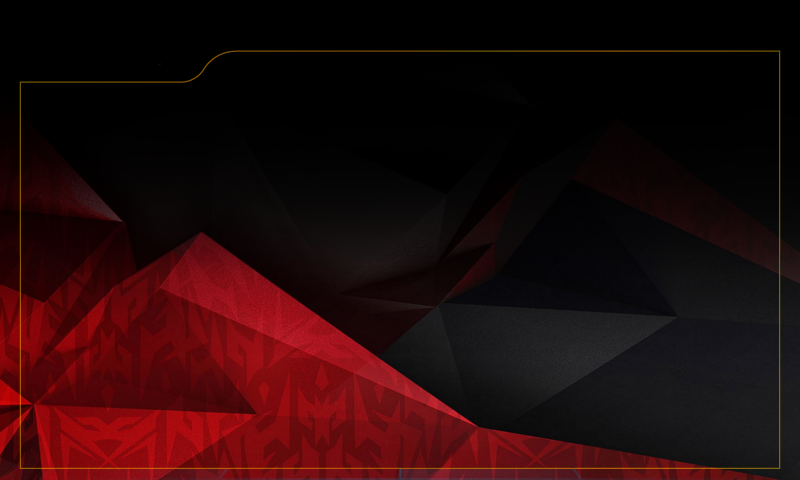
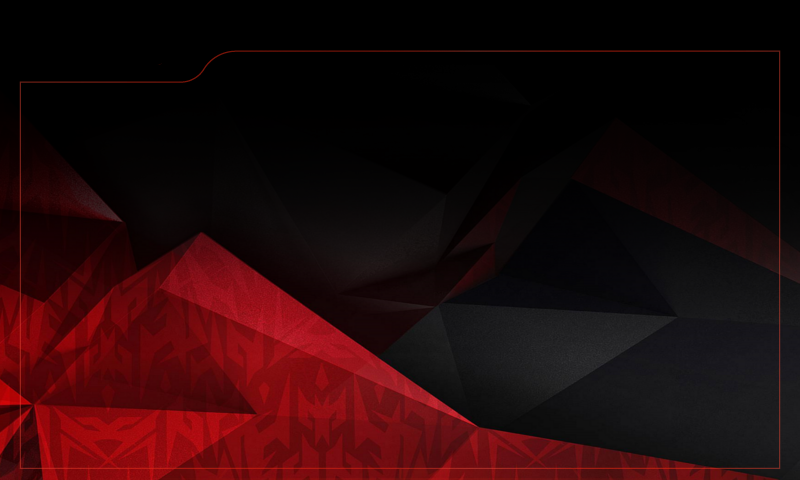
UPDATE: New theme properties

Changed region(s): [[0.2812, 0.0938, 0.9688, 0.125], [0.25, 0.9688, 0.75, 1.0], [0.0312, 0.1562, 0.25, 0.1875]]

diff --git a/src/Components/Settings/SettingsElements/SettingsItem.js b/src/Components/Settings/SettingsElements/SettingsItem.js
@@ -4,10 +4,18 @@ import Popup from '../../../Assets/MenuIcons/popup.svg'
 import LeftArrowIcon from '../../../Assets/MenuIcons/left-arrow2.png'
 import RightArrowIcon from '../../../Assets/MenuIcons/right-arrow2.png'
 
+import { DeviceContext } from '../../../Contexts/DeviceContext'
+
 class SettingsItem extends Component {
+  static contextType = DeviceContext
   render() {
     return (
-      <div className={`settings-item ${this.props.selected ? 'selected' : ''}`}>
+      <div 
+      style={{
+        background: this.props.selected ? this.context.theme.button_bg_selected : 'rgb(2, 25, 46)'
+      }}
+      className={`settings-item ${this.props.selected ? 'selected' : ''}`
+      }>
         <img className="settings-item-icon" src={this.props.icon} alt="icon"></img>
         <div className="title"> {this.props.title} </div>
         {

diff --git a/src/Components/Settings/Settings.js b/src/Components/Settings/Settings.js
@@ -516,7 +516,7 @@ class Settings extends Component {
           this.renderPopup(this.state.activePopup)
         }
         <Navigator active={!this.state.verticalIndex} activeSettingTab={this.state.activeSettingTab} buttons={this.buttons}></Navigator>
-        <div style={{borderColor:this.context.theme.border_color}} className={`settings-component-container  ${this.state.verticalIndex ? 'selected' : ''}`}>
+        <div style={{borderColor:this.context.theme.border_color, boxShadow: this.state.verticalIndex?  this.context.theme.settings_shadow : 'none' }} className="settings-component-container">
           {
             this.renderSettingsComponent()
           }

diff --git a/src/Components/Settings/SettingsComponents/Power/Power.js b/src/Components/Settings/SettingsComponents/Power/Power.js
@@ -2,7 +2,6 @@ import React, { Component } from 'react'
 import SetttingsItem from '../../SettingsElements/SettingsItem'
 import './Power.css'
 import PowerIcon from '../../../../Assets/MenuIcons/battery.svg'
-// import socketHelper from '../../../../SocketHelper'
 
 import { DeviceContext } from '../../../../Contexts/DeviceContext'
 
